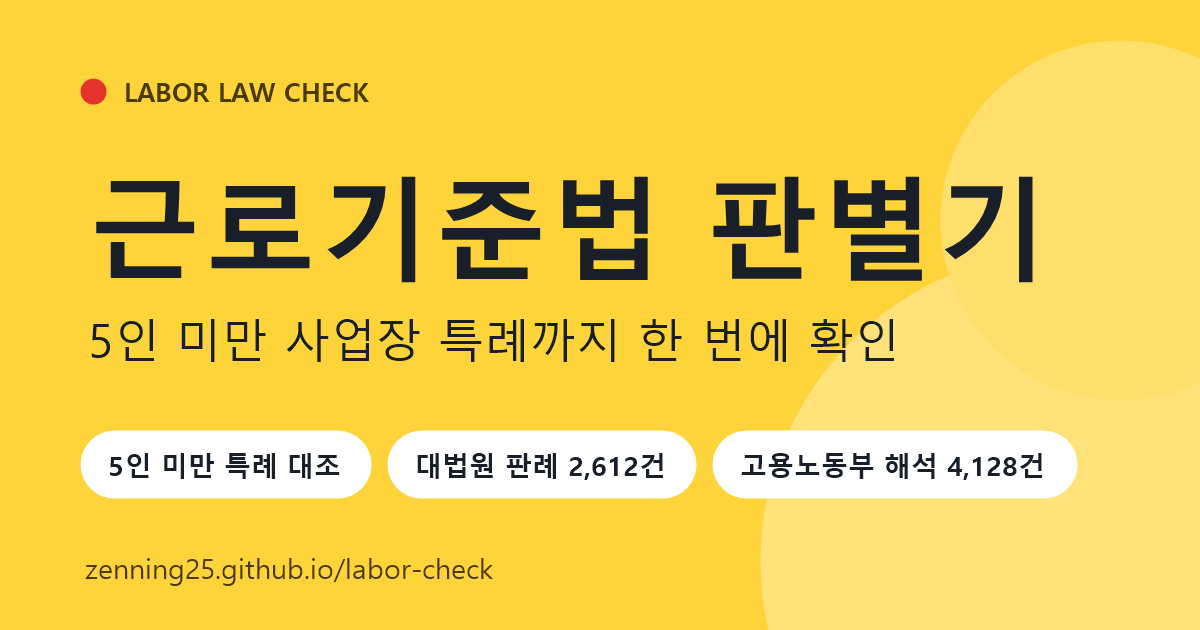
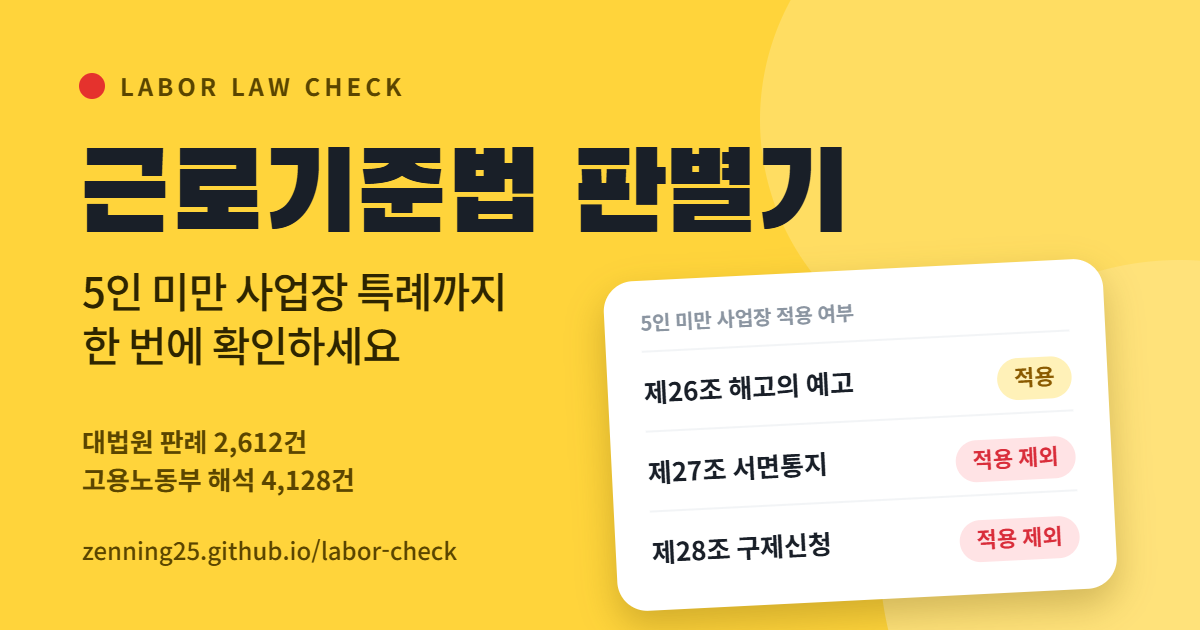
Add files via upload

diff --git a/인수인계_노트.md b/인수인계_노트.md
@@ -35,6 +35,7 @@
 | scripts\build_local.ps1 | data를 읽어 docs\(사이트용)와 단일 HTML을 만듭니다. |
 | scripts\template.html | 화면, 검색, 판정 로직 전부입니다. 수정은 여기서 합니다. |
 | scripts\law_scope.json | 법령별 적용 범위 메모입니다. 조문 원문을 읽고 확인한 내용만 담았습니다. |
+| scripts\make_assets.ps1, scripts\og-design.html | 링크 미리보기 이미지와 파비콘을 브라우저(구글 폰트 Black Han Sans, Noto Sans KR)로 그려 scripts\assets에 저장합니다. 문구와 숫자는 og-design.html에 있습니다. 결과는 빌드 때 docs\로 복사되고 사이트 루트에 og-image.png, favicon.png로 올라갑니다. |
 | data\ | 수집한 원본 JSON (6,771개, 46MB). prec, expc, law, laws, byl. |
 | docs\ | 빌드 결과물. index.html과 data\*.json (사이트에 올릴 파일). |
 | raw-data\ | data를 압축한 zip 3개 (GitHub 업로드용). |
@@ -69,6 +70,7 @@ GitHub 저장소(Pages는 main 브랜치의 / (root)에서 제공)
 - 최종 법리 판단은 화면의 Claude 요청문을 Claude에게 붙여 넣어 받습니다. 요청문에 조문, 적용 여부, 판례와 해석 후보가 담겨 있습니다.
 - 판례는 근로기준법 등을 참조법령으로 하는 대법원 판례만 받았습니다. 해석은 고용노동부 해석 9,636건 중 근로기준법 관련 쟁점 3,928건과 이전 수집분을 합쳤습니다.
 - 디자인: 큰 글씨, 둥근 카드, 노랑(주 포인트)과 빨강(보조) 포인트, "~합니다"체. 판정 색은 적법함 초록, 위반 소지 빨강, 추가 확인 필요 회청색입니다.
+- 링크 미리보기 이미지(1200x630)와 파비콘: 노란 배경, Black Han Sans 제목, 오른쪽에 5인 미만 적용 여부 카드 모양(제26조 적용, 제27조·제28조 적용 제외)을 넣었습니다. 카드 내용은 시행령 별표 1 대조 결과와 같습니다. 처음 만든 이미지(PC 기본 폰트)는 모양이 아쉬워 교체했습니다. 카카오톡과 슬랙은 미리보기를 한동안 기억하므로 바꾼 뒤에도 바로 안 바뀔 수 있습니다.
 
 ## 6. 알려진 한계와 미해결 사항
 

diff --git a/README.md b/README.md
@@ -26,7 +26,7 @@
 | `scripts/collect_laws.ps1` | 근로기준법 외 노동 관련 법령 11개와 시행령을 받습니다. |
 | `scripts/build_local.ps1` | 받은 데이터로 `docs/`(사이트용)와 단일 HTML 파일을 만듭니다. |
 | `scripts/template.html` | 화면과 검색 로직입니다. |
-| `scripts/make_assets.ps1` | 링크 미리보기 이미지(`og-image.png`)와 파비콘(`favicon.png`)을 그립니다. 결과는 `scripts/assets/`에 저장되고, 빌드할 때 `docs/`로 복사됩니다. |
+| `scripts/make_assets.ps1`, `scripts/og-design.html` | 링크 미리보기 이미지(`og-image.png`)와 파비콘(`favicon.png`)을 브라우저로 그립니다. 그림 문구는 `og-design.html`에 있고, 구글 폰트를 쓰므로 인터넷이 필요합니다. 결과는 `scripts/assets/`에 저장되고, 빌드할 때 `docs/`로 복사됩니다. |
 | `scripts/law_scope.json` | 법령별 적용 범위 메모입니다. 각 메모는 조문 원문을 읽고 확인한 내용만 담았습니다. |
 | `raw-data/` | 수집한 원본 JSON 전체를 압축한 파일입니다. |
 | `download/` | 더블클릭으로 쓰는 단일 HTML 파일(압축)입니다. |
